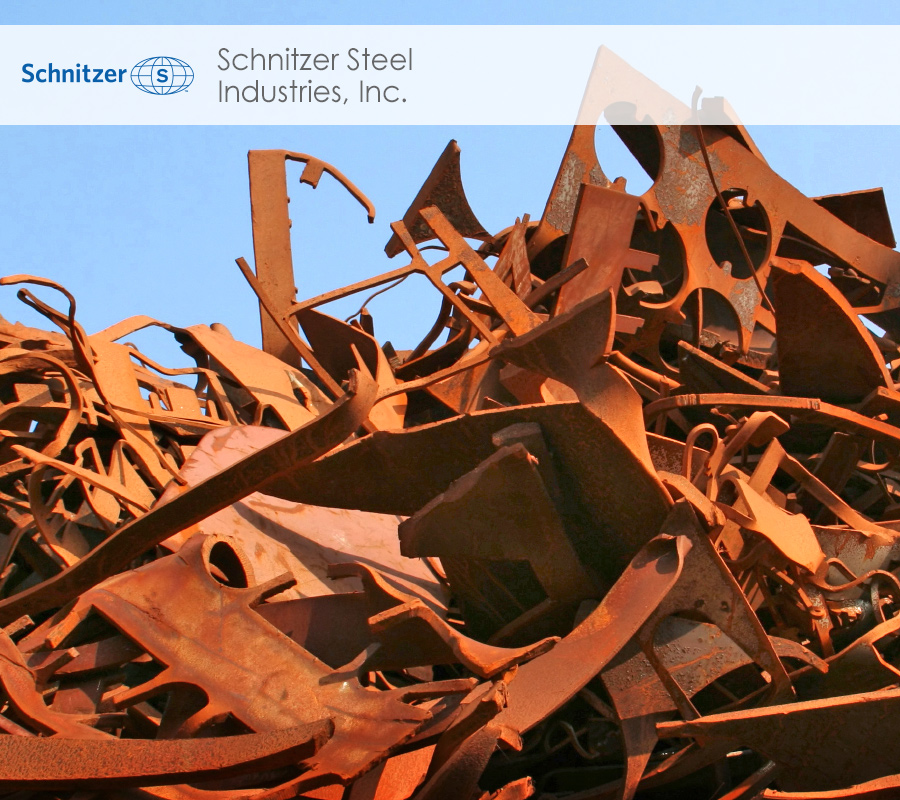
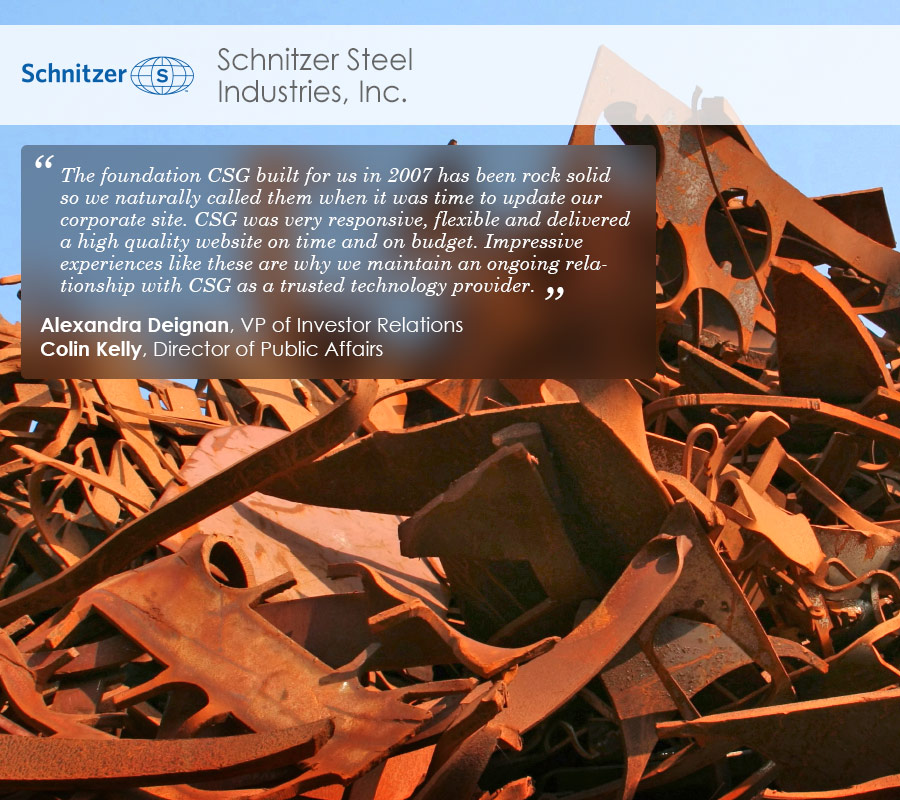
Updated schnitzer case study photo and copy.

Changed region(s): [[0.0, 0.1562, 0.7467, 0.5]]

diff --git a/public/js/bundle.min.js b/public/js/bundle.min.js
@@ -1,4 +1,4 @@
-/*! csg-website - v1.0.1 - 2014-10-02
+/*! csg-website - v1.0.1 - 2014-10-03
  *  Third party libraries:
  *  - Swipeshow: http://ricostacruz.com/swipeshow/
  *  - Magnific: http://dimsemenov.com/plugins/magnific-popup/
